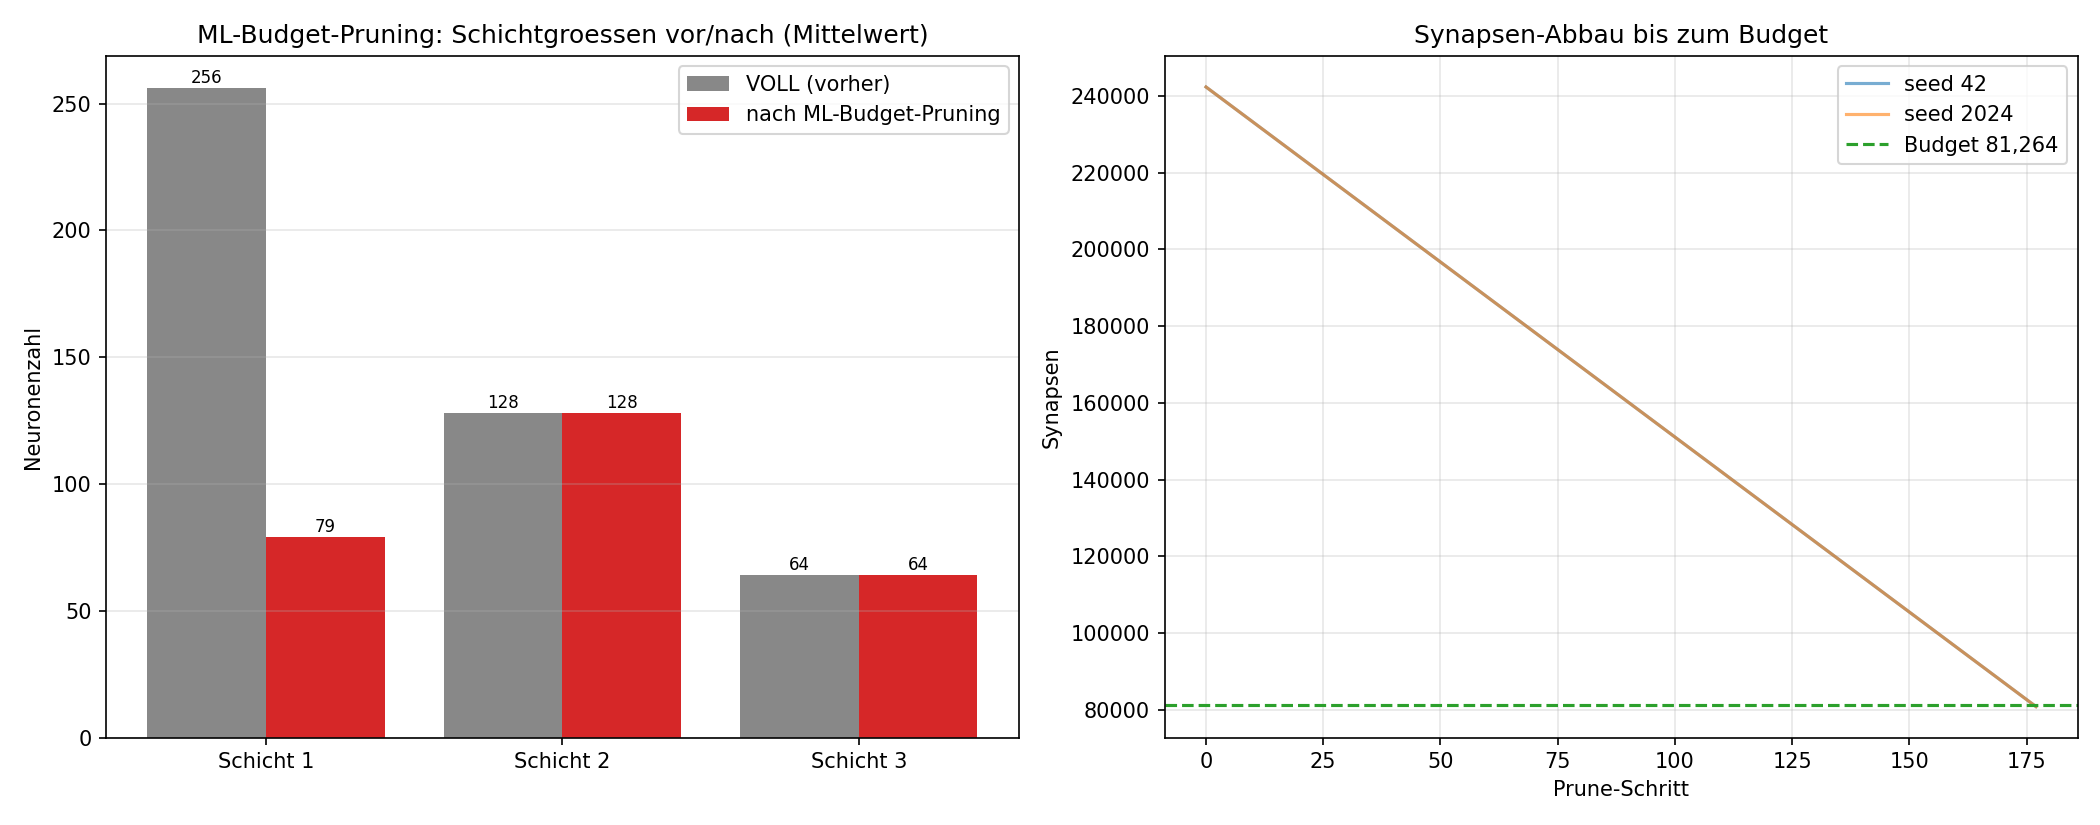
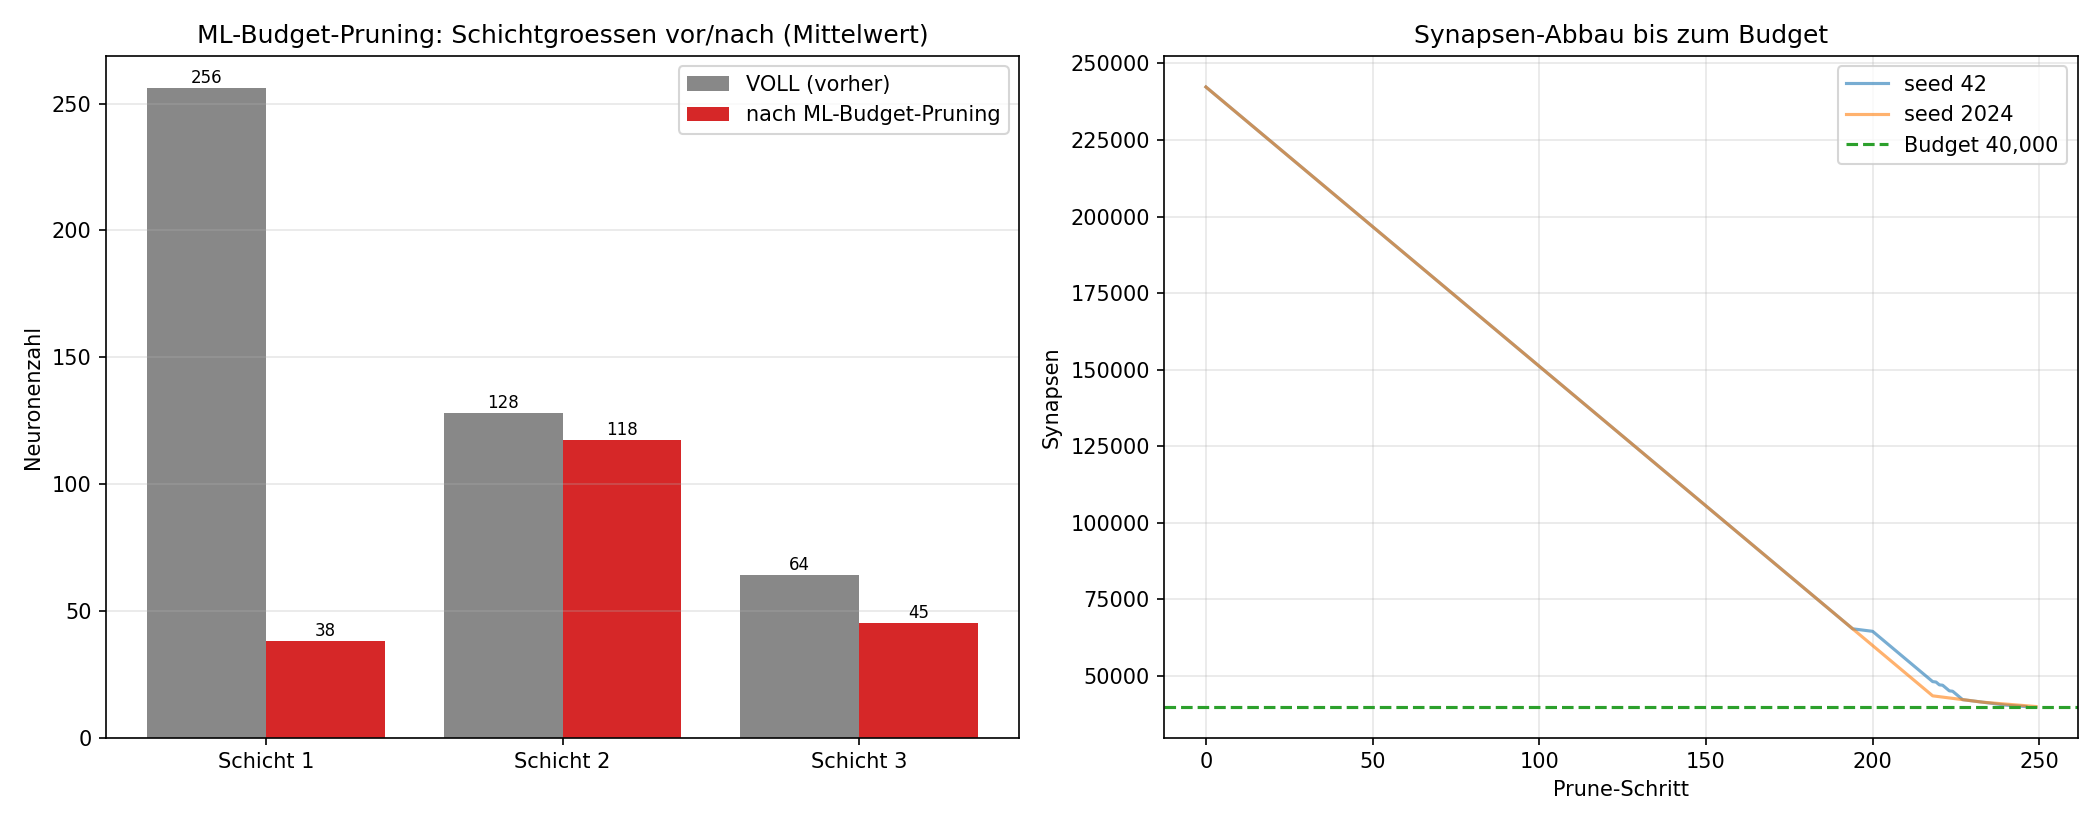
ML budget pruning at 40k synapses: ML now also prunes later layers ([~38,118,45]), acc ~97.1% (-83.5%)

diff --git a/Report/Benchmarks/structural_ml_ml_budget_pruning.py b/Report/Benchmarks/structural_ml_ml_budget_pruning.py
@@ -3,9 +3,9 @@ ML entscheidet selbst: adaptive Schichtgroessen via Synapsen-Budget
 ===================================================================
 Unterschied zu den bisherigen Benchmarks:
   Frueher wurde ein FESTES Ziel vorgegeben (z.B. [96,48,24]).
-  Hier gibt das ML-System nur ein SYNAPSEN-BUDGET vor (81.264, ~ -66.5%)
-  und entscheidet selbst, WELCHE Neuronen und in WELCHER Schicht geprunt
-  werden, bis das Budget erreicht ist.
+  Hier gibt das ML-System nur ein SYNAPSEN-BUDGET vor (SYN_TARGET, einstellbar;
+  z.B. 81.264 ~ -66.5% oder 40.000 ~ -83.5%) und entscheidet selbst, WELCHE
+  Neuronen und in WELCHER Schicht geprunt werden, bis das Budget erreicht ist.
 
 Kernidee:
   - Nicht alle Neuronen sind gleich "teuer":
@@ -61,7 +61,7 @@ test_loader = mt.test_loader
 print(f"Device: {device}", flush=True)
 
 LAYOUT = [256, 128, 64]
-SYN_TARGET = 81264          # Ziel-Synapsen (BUDGET, ~ -66.5% von 242304)
+SYN_TARGET = 40000          # Ziel-Synapsen (BUDGET, ~ -83.5% von 242304)
 SEEDS = [42, 2024]
 WARM = 6                     # Epochen vor dem Pruning (voll trainiert)
 FINETUNE = 6                 # Epochen nach dem Kompaktieren

diff --git a/Report/Benchmarks/README_BENCHMARKS.md b/Report/Benchmarks/README_BENCHMARKS.md
@@ -146,6 +146,32 @@ Kollaps einer Schicht. Budget = 81.264 Synapsen (≈ −66.5 % von 242.304).
 > Design-Entscheidung ("kostenbewusstes ML-Pruning"). Ohne diesen Faktor (nur nach
 > Score) würde das Layout eher proportional zu den Originalgrößen ausfallen.
 
+### Wie ändert sich das ML-Verhalten mit dem Budget? (40.000 Synapsen)
+
+Dasselbe Skript mit aggressiverem Budget `SYN_TARGET = 40000` (~ −83.5 % statt
+−66.5 %):
+
+| Seed | VOLL (vorher) | vom ML gewählt (nachher) | Synapsen | Accuracy vorher → nachher |
+|------|---------------|--------------------------|----------|---------------------------|
+| 42   | `[256,128,64]` | `[38,122,42]` | 242 304 → 39 972 | 97.38 % → **97.24 %** |
+| 2024 | `[256,128,64]` | `[38,113,48]` | 242 304 → 39 990 | 97.57 % → **97.00 %** |
+| Mittel | `[256,128,64]` | `[38,118,45]` | ~40 000 | ≈ 97.1 % |
+
+Interpretation:
+- Bei diesem viel knapperen Budget reicht das Schrumpfen **nur** der
+  Eingangsschicht nicht mehr. Das ML prunt Schicht 1 **bis auf den Floor (38)**
+  und greift nun **zusätzlich auf die späteren Schichten** zurück (Schicht 2 → 118,
+  Schicht 3 → 45).
+- Der Floor-Mechanismus (15 % der Originalgröße, min. 8) verhindert, dass Schicht 1
+  noch weiter kollabiert, und zwingt das ML, die wenigen verbliebenen Synapsen
+  effizient über alle Schichten zu verteilen.
+- Accuracy bleibt trotz −83.5 % Synapsen hoch (≈ 97.1 %): massiv komprimiert, aber
+  nahezu gleich gut.
+- **Fazit für das "Verhalten" des ML:** Das gewählte Layout hängt klar vom Budget ab.
+  Bei moderater Kompression (81k) schrumpft es fast nur die teure erste Schicht,
+  bei starker Kompression (40k) muss es zusätzlich alle Schichten proportionaler
+  beschneiden.
+
 ---
 
 ## 🚀 Ausführen
